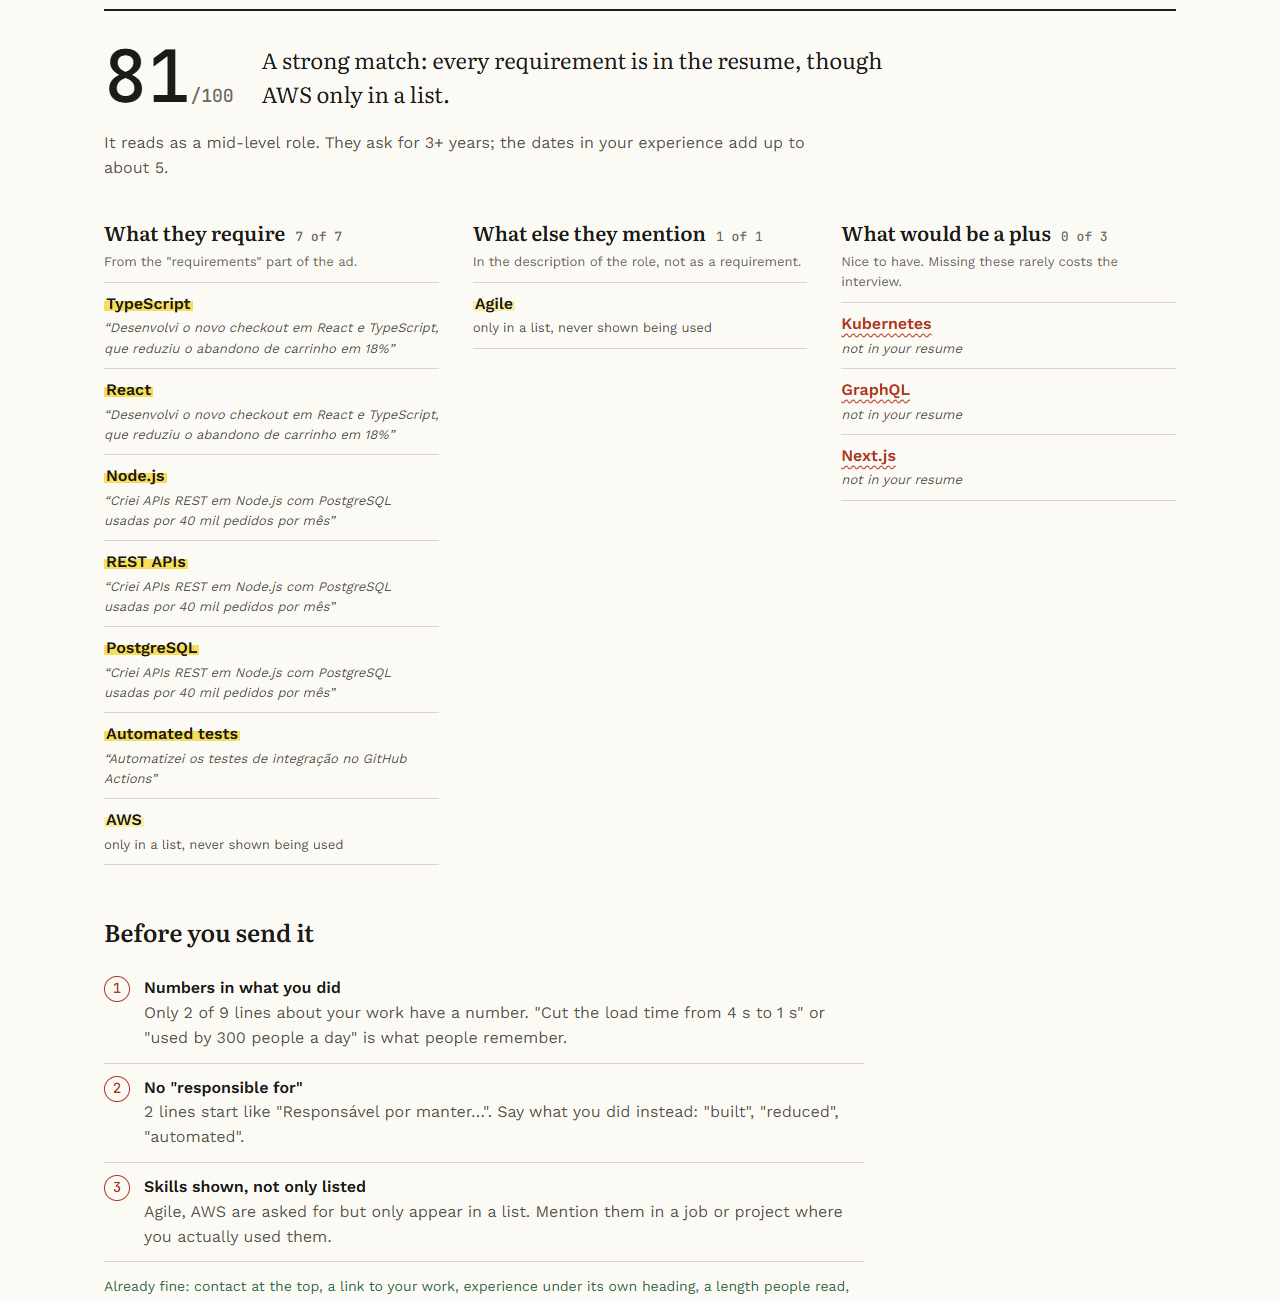
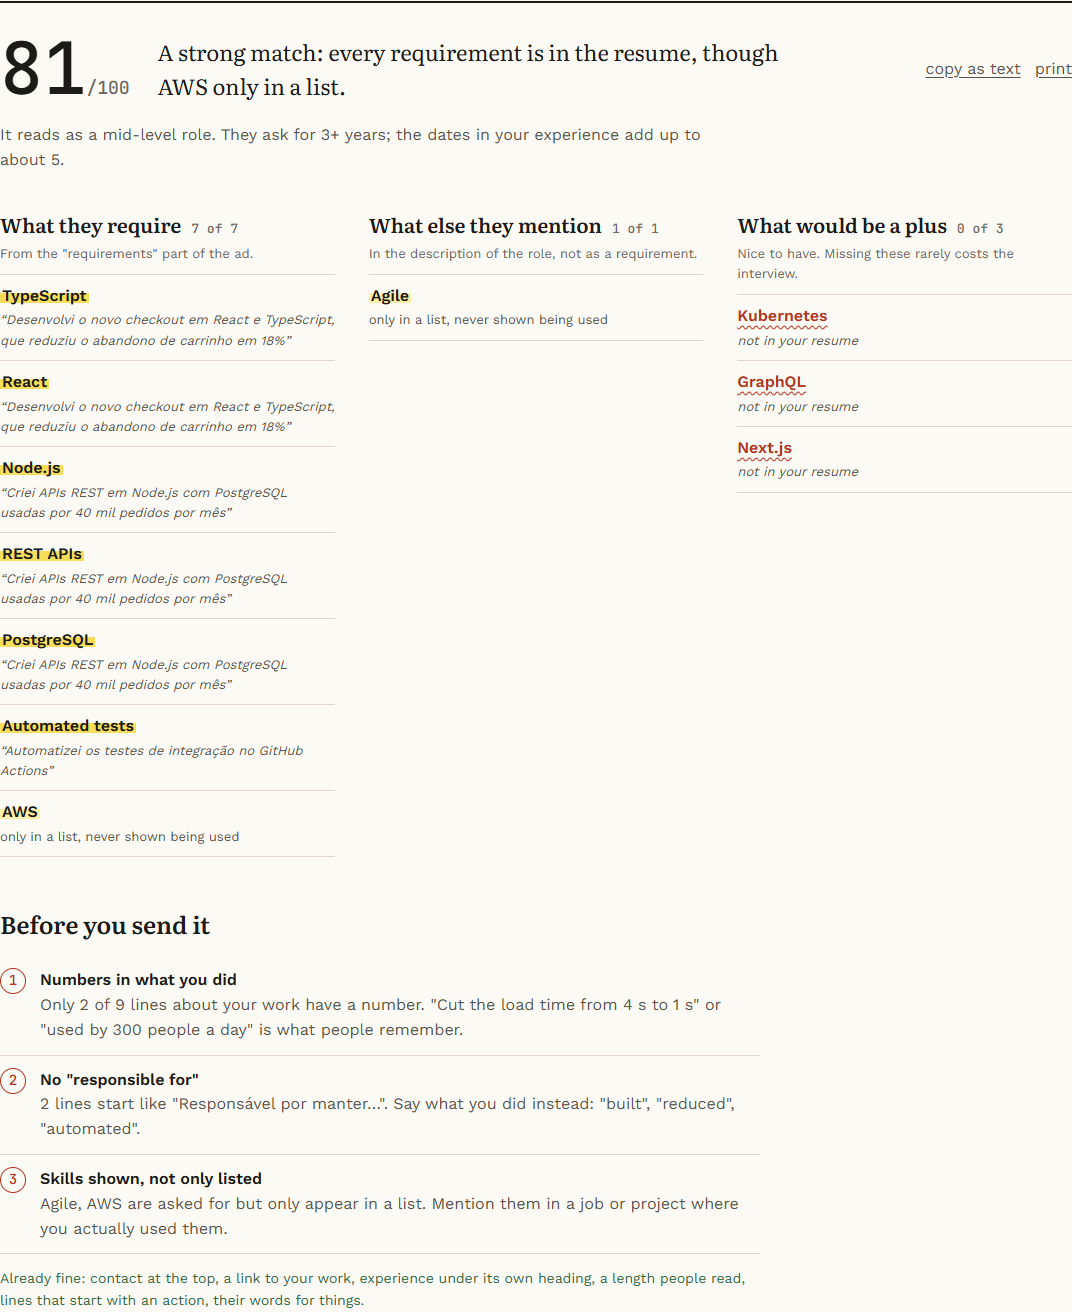
readme: the spelling check with a screenshot, the small things, fresh screenshots of the report

diff --git a/README.md b/README.md
@@ -11,11 +11,15 @@ Paste your resume and a job ad, and see how close they are: what the ad asks for
 - **The job ad** is split by its headers, the way ads are actually written in Brazil and abroad: *Requisitos* / *Requirements* is required, *Diferenciais* / *Nice to have* is a plus, *Responsabilidades* / *What you'll do* counts as mentioned. A line like "Docker (desejável)" inside the requirements is still a plus. *Benefícios* is skipped, so "auxílio para curso de inglês" isn't read as "English required". It also picks up "3+ anos de experiência" and the level in the title (júnior, pleno, sênior).
 - **The resume** is split into its sections (experience, projects, skills, education...), so it knows *where* each skill shows up. React in a job line that says what you built with it is worth more than React in a list of 30 technologies: a skill that's only listed counts 60%.
 - **Experience** is added up from the date ranges ("mar 2023 - atual", "01/2020 – 12/2021"), and two jobs at the same time don't count twice.
-- **Skills** come from a dictionary of about 90, each with the ways people write it ("Node.js", "NodeJS", "node"; "testes unitários", "unit tests", "TDD"). Short names that are also plain words ("Go", "Excel", "REST", "C") only count written the technical way, so "I go to" and "excel at" don't turn into skills.
+- **Skills** come from a dictionary of about 130, each with the ways people write it ("Node.js", "NodeJS", "node"; "testes unitários", "unit tests", "TDD"). Short names that are also plain words ("Go", "Excel", "REST", "C") only count written the technical way, so "I go to" and "excel at" don't turn into skills.
 
 ## What it says
 
-A score from 0 to 100 (required counts 3, mentioned 2, a plus 1), a sentence about the match, what's missing, and a few checks on the resume itself: contact at the top, a GitHub or LinkedIn link, lines with numbers in them ("reduced cart abandonment by 18%"), lines that start with what you did instead of "responsible for", and skills the ad asks for that only show up in a list.
+A score from 0 to 100 (required counts 3, mentioned 2, a plus 1), a sentence about the match, what's missing, and a few checks on the resume itself: contact at the top, a GitHub or LinkedIn link, lines with numbers in them ("reduced cart abandonment by 18%"), lines that start with what you did instead of "responsible for", skills the ad asks for that only show up in a list, and skills written differently from the ad.
+
+That last one is about the filters many companies put in front of the recruiter: if the ad says "PostgreSQL" and the resume says "Postgres", a person reads it as the same thing, but a filter matching words may not. It only flags real variants of a name (Postgres / PostgreSQL, k8s / Kubernetes, JS / JavaScript), not two related things under one skill like "Scrum" and "agile methods".
+
+<img src="docs/checks.png" alt="The list of what to fix: numbers in what you did, no 'responsible for', their words for things (they write PostgreSQL, you write Postgres), and skills only listed" width="620">
 
 ## Why no AI (yet)
 
@@ -26,6 +30,8 @@ Everything runs in the browser: the resume never leaves the computer, it's insta
 Two sheets side by side, the resume and the ad. The resume can also be picked as a PDF: pdf.js reads it right there in the browser, and it only loads when someone picks a file, so the page stays light. A scanned PDF has no text in it, and it says so instead of failing quietly.
 
 The report reads like a note from someone who read both: what they require, with the line of your resume that shows each one highlighted (or "only in a list"), the missing ones underlined in red, and a numbered list of what to fix before sending. The two texts stay in the browser's storage for the next visit, and nowhere else.
+
+A few small things that make it nicer to use more than once: Ctrl+Enter compares from either sheet, the report says when you've changed the text since it was made, "copy as text" gives a plain version to paste in your notes or send to whoever is helping with the resume, and printing gives just the report, on white.
 
 <img src="docs/report-dark.png" alt="The report in dark mode" width="640">
 
